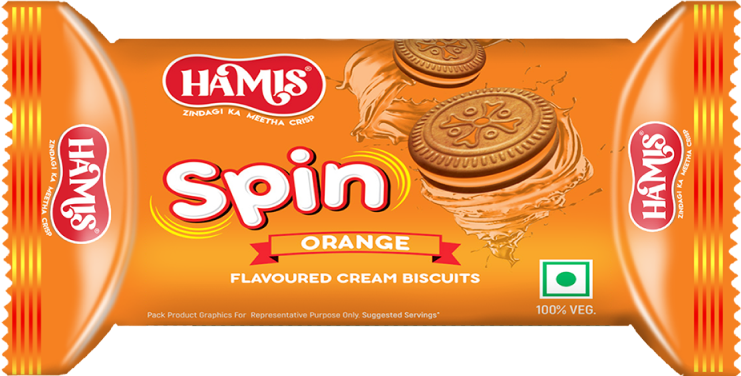
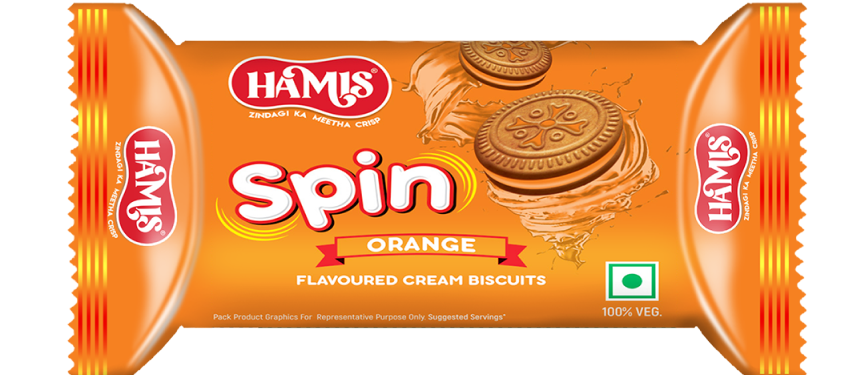
update image position

diff --git a/src/components/product/leftProductimages.jsx b/src/components/product/leftProductimages.jsx
@@ -8,18 +8,20 @@ function LeftProductImages({ left, right, main, flavour }) {
             <div className='main_product_images_parant_div' >
                 {/* image */}
                 <div className='product_images_main_div' >
+                    {/* center main image */}
+                    <div className='main_orange_center_image_div' >
                     {/* left image */}
                     <div className='left_side_left_product_image ' >
                         <img src={left} alt='left' className='img-fluid right_side_top_product_image ' />
                     </div>
-                    {/* center main image */}
                     <div>
                         <img src={main} alt='left' className='main_orange_center_image' />
-
                     </div>
+
                     {/* right image */}
                     <div className='left_side_right_product_image' >
                         <img src={right} alt='left' className='right_side_top_product_image' />
+                    </div>
                     </div>
                 </div>
                 {/* text */}

diff --git a/src/components/product/productImages.jsx b/src/components/product/productImages.jsx
@@ -19,18 +19,20 @@ function RightProductImages ({ left , right, main , flavour } ) {
                 </div>
                 <div className='product_images_main_div' >
                     {/* left image */}
+                    {/* center main image */}
+                    <div className='main_orange_center_image_div' >
                     <div className='left_product_image ' >
                         <img src={ right} alt='left' className='img-fluid right_side_top_product_image ' />
                     </div>
-                    {/* center main image */}
                     <div>
                         <img src={ main } alt='left' className='main_orange_center_image' />
-
                     </div>
-                    {/* right image */}
+
                     <div className='right_product_image' >
                         <img src={ left } alt='left' className='right_side_top_product_image' />
                     </div>
+                    </div>
+                    {/* right image */}
                 </div>
             </div>
 

diff --git a/src/styles/product/ProductImages.css b/src/styles/product/ProductImages.css
@@ -4,14 +4,16 @@
 }
 .main_product_images_parant_div{
     display: flex;
-    /* padding: 100px 50px; */
     padding: 250px 0px 0px 50px;
     height: 100%;
 }
 .product_images_main_div{
-    position: relative;
     width: 100%;
     display: flex;
+}
+.main_orange_center_image_div{
+    position: relative;
+
 }
 .left_product_image{
     position: absolute;
